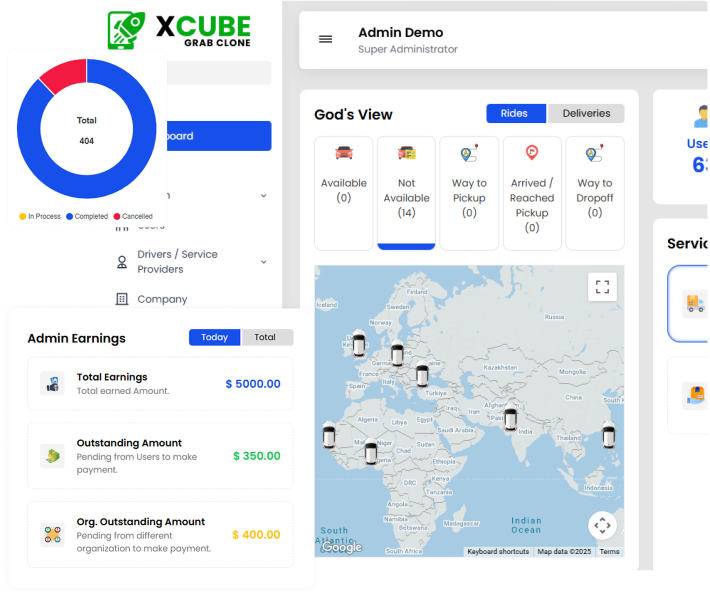
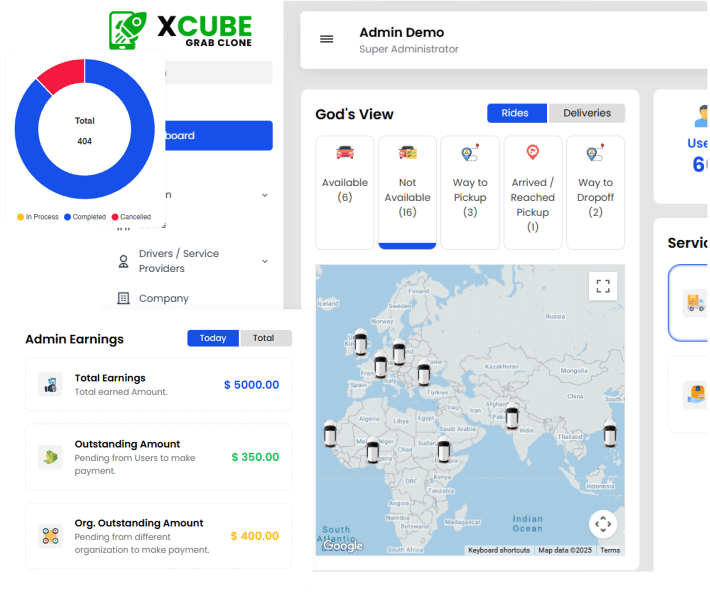
29th Aug - CDN - assets
29th Aug - CDN - assets

diff --git a/css/grab-clone-new.css b/css/grab-clone-new.css
@@ -1046,6 +1046,24 @@ span.smallspace {
     background-image: none;
 }
 
+.__banner_img{
+  display: block;
+  width: 100%;
+  position: relative;
+}
+.__banner_img::before{
+  content: '';
+  display: block;
+  width: 100%;
+  padding-top: 75.829%;
+}
+.__banner_img img{
+  position: absolute;
+  left: 0;
+  right: 0;
+  bottom: 0;
+  top: 0;
+}
 .king-icon {
   position: absolute;
   top: -30px;
@@ -1217,6 +1235,7 @@ span.smallspace {
   left: 80px;
   min-width: 170px;
   border-radius: 12px;
+  z-index: 1;
 }
 
 .typewriter__text {
@@ -1898,14 +1917,19 @@ a {
   padding: 5px;
   font-size: 34px;
   color: #000;
-  margin: 0 0 15px;
+  margin: 0 0 10px;
   border-radius: 10px;
   -webkit-border-radius: 10px;
   -moz-border-radius: 10px;
   -ms-border-radius: 10px;
   -o-border-radius: 10px;
 }
-
+.services-tabs_content ul li .single-service-inner i img{
+  width: 42px;
+  height: 42px;
+  display: inline-block;
+  font-size: 0;
+}
 .services-tabs_content ul li .single-service-inner strong {
   font-size: 17px;
   color: #000;
@@ -2087,6 +2111,7 @@ a {
 .statisticsmain {
   position: relative;
   width: 100%;
+  margin-top: 15px;
 }
 
 .statistics-inner {
@@ -2100,7 +2125,7 @@ a {
   z-index: 1;
 }
 
-.statistics ul {
+.statisticsmain ul {
   width: 100%;
   display: flex;
   flex-wrap: wrap;
@@ -2117,9 +2142,10 @@ a {
   align-items: center;
   border: 1px solid #ffffffe6;
   box-shadow: 0 0 15px 0 rgba(0, 0, 0, .07);
+  background-color: #fff;
 }
 
-.statistics ul li {
+.statisticsmain ul li {
   width: calc((100% - 70px) / 5);
   width: -webkit-calc((100% - 70px) / 5);
   width: -moz-calc((100% - 70px) / 5);
@@ -2133,7 +2159,7 @@ a {
   flex-grow: 1;
 }
 
-.statistics ul li small {
+.statisticsmain ul li small {
   color: #000;
   display: block;
   font-weight: 500;
@@ -2142,7 +2168,7 @@ a {
   line-height: 1.1em;
 }
 
-.statistics ul li sub {
+.statisticsmain ul li sub {
   font-size: 44px;
   display: inline-block;
   position: relative;
@@ -4101,7 +4127,7 @@ ul.subcat-listing li span {
 /* ----------------------------------------------------- */
 .launch-section {
   overflow: hidden;
-  padding: 0 15px 0 0;
+  padding: 0 15px 40px 0;
 }
 
 .launch_inner {
@@ -4331,6 +4357,10 @@ ul.subcat-listing li span {
     max-width: 991px;
     margin: 0 auto 20px auto;
   }
+  .__banner_img{
+    max-width: 722px;
+    margin: 0 auto;
+  }
 
   .banner-description-top .left-caption {
     width: 100%;
@@ -4504,7 +4534,9 @@ ul.subcat-listing li span {
     order: 2;
     margin-bottom: 25px;
   }
-
+.statisticsmain{
+  order: 4;
+}
 }
 
 @media (max-width:991px) {
@@ -4682,10 +4714,10 @@ ul.tab-row:after{
   width: 100%;
 }
 /* -------------------------------------- */
-.statistics ul {
+.statisticsmain ul {
     gap: 15px;
 }
-.statistics ul li {
+.statisticsmain ul li {
     width: calc((100% - 70px) / 4);
     width: -webkit-calc((100% - 70px) / 4);
     width: -moz-calc((100% - 70px) / 4);
@@ -4698,7 +4730,7 @@ ul.tab-row:after{
 .st_title {
     font-size: 30px;
 }
-.statistics ul li small {
+.statisticsmain ul li small {
     font-size: 16px;
 }
 /* -------------------------------------- */
@@ -4791,7 +4823,7 @@ ul.reviews-list li {
     font-size: 5.5vw;
     line-height: 6.5vw;
 }
-.statistics ul li {
+.statisticsmain ul li {
     width: calc((100% - 70px) / 2);
     width: -webkit-calc((100% - 70px) / 2);
     width: -moz-calc((100% - 70px) / 2);
@@ -4823,6 +4855,9 @@ ul.reviews-list li {
 }
 .faq-answer {
     background-color: #fff;
+}
+.st_title {
+    font-size: 25px;
 }
 }
 
